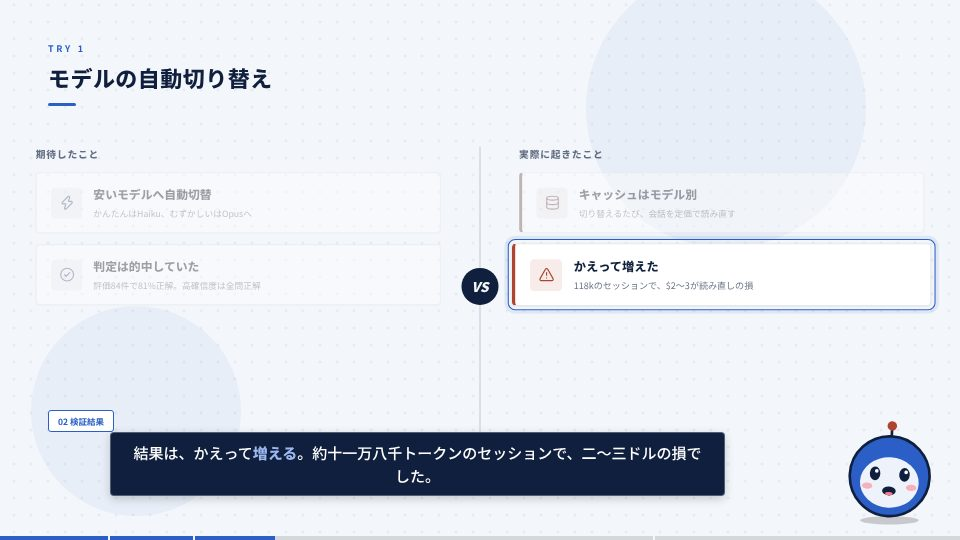
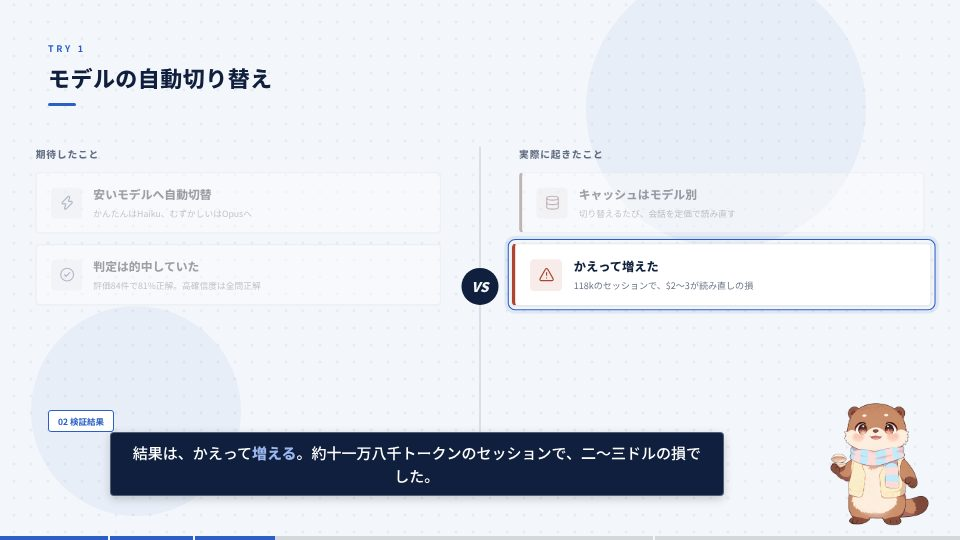
カワウソのキャラクターを既定で表示し、3段階の口パクに対応
- 添付のカワウソ画像から背景を抜き、口を開けた / 半開き / 閉じた画像を作成 (public/avatar/)
- meta.avatar を省略してもカワウソが表示されるように既定値を変更 (false で非表示)
- 画像キャラクターの half (半開き) に対応し、音量に応じて3段階で切り替える
- サムネイルにもキャラクターを表示
- デモ台本から組み込みキャラの指定を外し、README・手順書・画面例を更新

Claude-Session: https://claude.ai/code/session_014YSteJN7zVV53vkynQnrxZ

Changed region(s): [[0.8438, 0.7407, 0.9688, 0.9778], [0.125, 0.8296, 0.5938, 0.8889], [0.6562, 0.8296, 0.7188, 0.8593]]

diff --git a/docs/manual.html b/docs/manual.html
@@ -155,7 +155,7 @@ footer { max-width: 960px; margin: 0 auto; padding: var(--sp-3) var(--sp-2); col
   <div><b>強調</b><p>セリフに <code>focus</code> を書くと説明中の要素が拡大され、他は薄くなります。<code>**語句**</code> で字幕の色が変わります。</p></div>
   <div><b>字幕</b><p>YouTube でおなじみの縁取り文字、または帯付きの字幕。テーマに合わせて自動で選ばれます。</p></div>
   <div><b>効果音とBGM</b><p>出現の「ポン」、切り替えの「シュッ」、強調の「チーン」を自動で配置。BGM はナレーション中だけ音量が下がります。</p></div>
-  <div><b>喋るキャラクター</b><p>右下にキャラクターを出せます。口の動きは音声の大きさから自動で作られます。自前の画像2枚にも差し替え可能です。</p></div>
+  <div><b>喋るキャラクター</b><p>右下にカワウソのキャラクターが出ます。口の動きは音声の大きさから自動で作られ、サムネイルにも登場します。自前の画像にも差し替えられます。</p></div>
   <div><b>登録の導線</b><p>動画の途中に「チャンネル登録」のポップアップ（カーソルがクリックする演出）。最後は終了画面の枠付きエンディング。</p></div>
 </div>
 
@@ -369,7 +369,7 @@ npm run youtube     # → out/youtube/description.txt, captions.srt, metadata.js
     <tr><td><code>subtitle</code></td><td><code>{ "enabled": true, "style": "auto" }</code></td><td><code>style</code> は <code>box</code>（帯）/ <code>outline</code>（縁取り）/ <code>auto</code>（テーマ既定）。YouTube の字幕機能だけ使うなら <code>enabled: false</code></td></tr>
     <tr><td><code>sfx</code></td><td><code>{ "enabled": true, "volume": 0.5 }</code></td><td>効果音。<code>reveal</code>（出現時の pop）と <code>transition</code>（切り替えの whoosh）を個別に <code>false</code> にもできる</td></tr>
     <tr><td><code>bgm</code></td><td>なし</td><td><code>{ "src": "bgm/track.mp3", "volume": 0.18, "duckVolume": 0.07 }</code>。<code>public/</code> に置いた音源をループし、ナレーション中は <code>duckVolume</code> まで下げる</td></tr>
-    <tr><td><code>avatar</code></td><td>なし</td><td><code>{ "type": "builtin" }</code> で組み込みキャラ。自前の画像なら <code>{ "type": "image", "open": "avatar/open.png", "closed": "avatar/closed.png" }</code>。<code>name</code> で名札、<code>size</code> で大きさ</td></tr>
+    <tr><td><code>avatar</code></td><td>カワウソ（同梱）</td><td>右下で喋るキャラクター。<strong>省略時は同梱のカワウソが出る</strong>。<code>false</code> で非表示。自前の画像なら <code>{ "type": "image", "open": "avatar/open.png", "half": "avatar/half.png", "closed": "avatar/closed.png" }</code>（<code>half</code> は省略可）。<code>{ "type": "builtin" }</code> で画像なしの丸顔キャラ。<code>name</code> で名札、<code>size</code> で大きさ</td></tr>
     <tr><td><code>subscribePopup</code></td><td>なし</td><td><code>{ "sceneId": "sec2" }</code>。そのシーンの冒頭に約4秒、登録ボタンの演出を右上に出す</td></tr>
     <tr><td><code>thumbnail</code></td><td>なし</td><td><code>{ "text": "大きな文字\n**強調**", "sub": "…", "badge": "…", "image": "…" }</code>。省略時は title シーンから作る</td></tr>
   </tbody>
@@ -381,7 +381,6 @@ npm run youtube     # → out/youtube/description.txt, captions.srt, metadata.js
   "title": "Claude Codeのトークン節約 — 四つの方法を実測した結果",
   "theme": "pop",
   "transition": "slide",
-  "avatar": { "type": "builtin" },
   "bgm": { "src": "bgm/track.mp3" },
   "subscribePopup": { "sceneId": "sec2" },
   "thumbnail": { "text": "トークン節約\n**4つの方法**を実測", "badge": "実測" }
@@ -522,6 +521,7 @@ npm run audio &amp;&amp; npm run build:youtube</code></pre>
     <tr><td><code>docker: invalid IP address</code></td><td><code>-p</code> の値を引用符で囲んでいます。引用符なしで実行してください。</td></tr>
     <tr><td>「timeline.json に … 対応するエントリがありません」</td><td>台本を直した後に <code>npm run audio</code> を実行していません。再実行します。</td></tr>
     <tr><td>「要素ID "…" はシーン "…" にありません」</td><td><code>reveal</code> / <code>focus</code> の綴りの間違いです。メッセージに使えるIDの一覧が出ます。</td></tr>
+    <tr><td>キャラクターを別の画像にしたい</td><td>背景が透明な PNG を <code>public/avatar/</code> に置き、<code>meta.avatar</code> でファイル名を指定します。口を開けた画像と閉じた画像の2枚（＋任意で半開き）が必要です。</td></tr>
     <tr><td>キャラクターの口が動かない・一定のリズムで動く</td><td>古い <code>timeline.json</code> か、<code>audio:mock</code> で作ったタイムラインです。<code>npm run audio</code> を実行すると音声に合わせて動きます。</td></tr>
     <tr><td>音声と表示がずれる</td><td><code>npm run audio</code> をやり直します。タイムラインは音声の実寸から再計算されます。</td></tr>
     <tr><td>動きが多すぎる・目が疲れる</td><td><a href="#meta">meta</a> で <code>animation</code>・<code>transition</code>・<code>camera</code>・<code>animatedBackground</code> を控えめにします。</td></tr>
@@ -538,6 +538,7 @@ npm run audio &amp;&amp; npm run build:youtube</code></pre>
 │   ├── timeline.json    生成物: フレーム計算の結果 + 口パク用の音量
 │   ├── audio/           生成物: セリフごとのWAV
 │   ├── sfx/             効果音（同梱）
+│   ├── avatar/          キャラクター画像（口: open / half / closed）
 │   └── fonts/           Noto Sans JP
 ├── scripts/             音声生成・台本生成・投稿用ファイル・効果音の合成
 ├── shared/              音声側とRemotion側の共通処理（timing.ts / markup.ts）

diff --git a/src/components/Avatar.tsx b/src/components/Avatar.tsx
@@ -30,7 +30,7 @@ export const mouthOpenAt = (frame: number): number => {
   return 0;
 };
 
-/** 右下で喋るキャラクター。meta.avatar 指定時のみ表示 */
+/** 右下で喋るキャラクター。meta.avatar が false のときは表示しない */
 export const Avatar: React.FC = () => {
   const frame = useCurrentFrame();
   const { fps } = useVideoConfig();
@@ -58,18 +58,8 @@ export const Avatar: React.FC = () => {
         transform: `translateY(${(1 - enter) * 260 + bob}px)`,
       }}
     >
-      {avatar.type === 'image' && avatar.open && avatar.closed ? (
-        <>
-          {/* 2枚とも読み込んでおき、表示だけ切り替える (切り替え時のちらつき防止) */}
-          <Img
-            src={staticFile(avatar.open)}
-            style={{ width: size, height: size, objectFit: 'contain', display: open > 0.3 ? 'block' : 'none' }}
-          />
-          <Img
-            src={staticFile(avatar.closed)}
-            style={{ width: size, height: size, objectFit: 'contain', display: open > 0.3 ? 'none' : 'block' }}
-          />
-        </>
+      {avatar.type === 'image' ? (
+        <MouthImages avatar={avatar} open={open} size={size} />
       ) : (
         <BuiltinCharacter size={size} open={open} frame={frame} />
       )}
@@ -90,6 +80,36 @@ export const Avatar: React.FC = () => {
         </div>
       ) : null}
     </div>
+  );
+};
+
+type ImageAvatar = Exclude<typeof script.meta.avatar, false>;
+
+/**
+ * 画像2〜3枚の口パク。全部読み込んでおき、表示だけ切り替える (切り替え時のちらつき防止)。
+ * half (半開き) があれば 3段階、なければ開く/閉じるの 2段階。
+ */
+const MouthImages: React.FC<{ avatar: ImageAvatar; open: number; size: number }> = ({ avatar, open, size }) => {
+  const frames = avatar.half
+    ? [
+        { src: avatar.closed, show: open < 0.22 },
+        { src: avatar.half, show: open >= 0.22 && open < 0.55 },
+        { src: avatar.open, show: open >= 0.55 },
+      ]
+    : [
+        { src: avatar.closed, show: open < 0.3 },
+        { src: avatar.open, show: open >= 0.3 },
+      ];
+  return (
+    <>
+      {frames.map((f) => (
+        <Img
+          key={f.src}
+          src={staticFile(f.src)}
+          style={{ width: size, height: size, objectFit: 'contain', display: f.show ? 'block' : 'none' }}
+        />
+      ))}
+    </>
   );
 };
 

diff --git a/src/schemas.ts b/src/schemas.ts
@@ -337,17 +337,30 @@ export const metaSchema = z.object({
       duckVolume: z.number().min(0).max(1).default(0.07),
     })
     .optional(),
-  /** 右下で喋るキャラクター。口の動きは音声の音量から自動生成 */
+  /**
+   * 右下で喋るキャラクター。口の動きは音声の音量から自動生成。
+   * 省略時は同梱のカワウソ (public/avatar/) を表示する。false で非表示
+   */
   avatar: z
-    .object({
-      type: z.enum(['builtin', 'image']).default('builtin'),
-      /** type: image のとき。口を開けた画像 / 閉じた画像 (public/ からの相対パス) */
-      open: z.string().optional(),
-      closed: z.string().optional(),
-      name: z.string().optional(),
-      size: z.number().default(210),
-    })
-    .optional(),
+    .union([
+      z.literal(false),
+      z.object({
+        type: z.enum(['builtin', 'image']).default('image'),
+        /** type: image のとき。口を開けた / 半開き (省略可) / 閉じた画像 (public/ からの相対パス) */
+        open: z.string().default('avatar/open.png'),
+        half: z.string().optional(),
+        closed: z.string().default('avatar/closed.png'),
+        name: z.string().optional(),
+        size: z.number().default(250),
+      }),
+    ])
+    .default({
+      type: 'image',
+      open: 'avatar/open.png',
+      half: 'avatar/half.png',
+      closed: 'avatar/closed.png',
+      size: 250,
+    }),
   /** チャンネル登録を促すポップアップを出すシーンID (シーン開始時に約4秒表示) */
   subscribePopup: z
     .object({

diff --git a/src/Thumbnail.tsx b/src/Thumbnail.tsx
@@ -35,7 +35,11 @@ export const Thumbnail: React.FC = () => {
   const thumb = resolveThumbnail();
   const lines = thumb.text.split('\n');
   const longest = Math.max(...lines.map((l) => [...l.replace(/\*\*/g, '')].length), 1);
-  const fontSize = Math.min(150, Math.floor(1100 / longest), Math.floor(480 / lines.length));
+  // キャラクター画像があれば右下に大きく置き、文字はその分左に寄せる
+  const avatar = script.meta.avatar;
+  const character = avatar && avatar.type === 'image' ? avatar.open : null;
+  const textWidth = character ? 820 : 1100;
+  const fontSize = Math.min(150, Math.floor(textWidth / longest), Math.floor(480 / lines.length));
 
   return (
     <ThemeContext.Provider value={theme}>
@@ -78,13 +82,25 @@ export const Thumbnail: React.FC = () => {
             {thumb.badge}
           </div>
         ) : null}
+        {character ? (
+          <Img
+            src={staticFile(character)}
+            style={{
+              position: 'absolute',
+              right: 10,
+              bottom: -30,
+              height: 560,
+              filter: 'drop-shadow(0 10px 24px rgba(0,0,0,0.45))',
+            }}
+          />
+        ) : null}
         <AbsoluteFill
           style={{
             display: 'flex',
             flexDirection: 'column',
             justifyContent: 'center',
             alignItems: 'center',
-            padding: '60px 70px 110px',
+            padding: character ? '60px 400px 110px 50px' : '60px 70px 110px',
           }}
         >
           {lines.map((line, i) => (

diff --git a/src/Slideshow.tsx b/src/Slideshow.tsx
@@ -96,7 +96,7 @@ export const Slideshow: React.FC = () => {
         <SubscribePopup />
         <Avatar />
         {/* 字幕はシーンのトランジションとは独立したレイヤー */}
-        <SubtitleLayer rightInset={avatar ? avatar.size + 40 : 0} />
+        <SubtitleLayer rightInset={avatar ? avatar.size * 0.85 + 40 : 0} />
         <ProgressBar />
       </AbsoluteFill>
     </ThemeContext.Provider>
